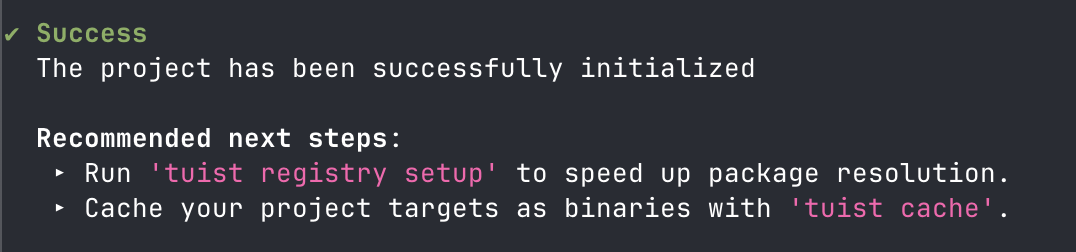
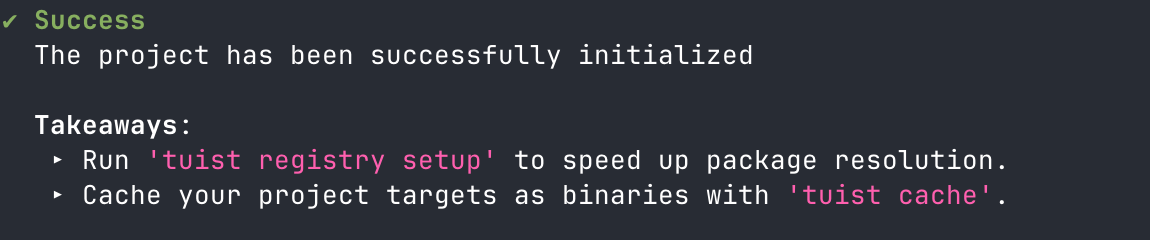
Rename next steps to takeaways

diff --git a/Sources/Noora/Noora.swift b/Sources/Noora/Noora.swift
@@ -3,60 +3,60 @@ import Logging
 
 public struct WarningAlert: ExpressibleByStringLiteral, Equatable, Hashable {
     public let message: TerminalText
-    public let nextStep: TerminalText?
+    public let takeaway: TerminalText?
 
-    public static func alert(_ message: TerminalText, nextStep: TerminalText? = nil) -> WarningAlert {
-        WarningAlert(message, nextStep: nextStep)
+    public static func alert(_ message: TerminalText, takeaway: TerminalText? = nil) -> WarningAlert {
+        WarningAlert(message, takeaway: takeaway)
     }
 
-    init(_ message: TerminalText, nextStep: TerminalText? = nil) {
+    init(_ message: TerminalText, takeaway: TerminalText? = nil) {
         self.message = message
-        self.nextStep = nextStep
+        self.takeaway = takeaway
     }
 
     public init(stringLiteral value: String) {
         message = TerminalText(stringLiteral: value)
-        nextStep = nil
+        takeaway = nil
     }
 }
 
 public struct SuccessAlert: ExpressibleByStringLiteral, Equatable, Hashable {
     public let message: TerminalText
-    public let nextSteps: [TerminalText]
+    public let takeaways: [TerminalText]
 
-    public static func alert(_ message: TerminalText, nextSteps: [TerminalText] = [])
+    public static func alert(_ message: TerminalText, takeaways: [TerminalText] = [])
         -> SuccessAlert
     {
-        SuccessAlert(message, nextSteps: nextSteps)
+        SuccessAlert(message, takeaways: takeaways)
     }
 
-    init(_ message: TerminalText, nextSteps: [TerminalText] = []) {
+    init(_ message: TerminalText, takeaways: [TerminalText] = []) {
         self.message = message
-        self.nextSteps = nextSteps
+        self.takeaways = takeaways
     }
 
     public init(stringLiteral value: String) {
         message = TerminalText(stringLiteral: value)
-        nextSteps = []
+        takeaways = []
     }
 }
 
 public struct ErrorAlert: ExpressibleByStringLiteral, Equatable, Hashable {
     public let message: TerminalText
-    public let nextSteps: [TerminalText]
+    public let takeaways: [TerminalText]
 
-    public static func alert(_ message: TerminalText, nextSteps: [TerminalText] = []) -> ErrorAlert {
-        ErrorAlert(message, nextSteps: nextSteps)
+    public static func alert(_ message: TerminalText, takeaways: [TerminalText] = []) -> ErrorAlert {
+        ErrorAlert(message, takeaways: takeaways)
     }
 
-    init(_ message: TerminalText, nextSteps: [TerminalText] = []) {
+    init(_ message: TerminalText, takeaways: [TerminalText] = []) {
         self.message = message
-        self.nextSteps = nextSteps
+        self.takeaways = takeaways
     }
 
     public init(stringLiteral value: String) {
         message = TerminalText(stringLiteral: value)
-        nextSteps = []
+        takeaways = []
     }
 }
 
@@ -361,7 +361,7 @@ public class Noora: Noorable {
 
     public func success(_ alert: SuccessAlert) {
         Alert(
-            item: .success(alert.message, nextSteps: alert.nextSteps),
+            item: .success(alert.message, takeaways: alert.takeaways),
             standardPipelines: standardPipelines,
             terminal: terminal,
             theme: theme,
@@ -371,7 +371,7 @@ public class Noora: Noorable {
 
     public func error(_ alert: ErrorAlert) {
         Alert(
-            item: .error(alert.message, nextSteps: alert.nextSteps),
+            item: .error(alert.message, takeaways: alert.takeaways),
             standardPipelines: standardPipelines,
             terminal: terminal,
             theme: theme,
@@ -385,7 +385,7 @@ public class Noora: Noorable {
 
     public func warning(_ alerts: [WarningAlert]) {
         Alert(
-            item: .warning(alerts.map { (message: $0.message, nextStep: $0.nextStep) }),
+            item: .warning(alerts.map { (message: $0.message, takeaway: $0.takeaway) }),
             standardPipelines: standardPipelines,
             terminal: terminal,
             theme: theme,

diff --git a/Sources/Noora/Components/Alert.swift b/Sources/Noora/Components/Alert.swift
@@ -3,9 +3,9 @@ import Logging
 import Rainbow
 
 enum AlertItem {
-    case warning([(TerminalText, nextStep: TerminalText?)])
-    case success(TerminalText, nextSteps: [TerminalText] = [])
-    case error(TerminalText, nextSteps: [TerminalText] = [])
+    case warning([(TerminalText, takeaway: TerminalText?)])
+    case success(TerminalText, takeaways: [TerminalText] = [])
+    case error(TerminalText, takeaways: [TerminalText] = [])
 
     var isSuccess: Bool {
         switch self {
@@ -31,13 +31,13 @@ struct Alert {
         let (title, color, recommendedTitle) = switch item {
         case .error: ("✖ Error ", theme.danger, "Sorry this didn’t work. Here’s what to try next")
         case .warning: ("! Warning ", theme.accent, "The following items may need attention")
-        case .success: ("✔ Success ", theme.success, "Recommended next steps")
+        case .success: ("✔ Success ", theme.success, "Takeaways")
         }
 
         standardPipeline.write(content: "\(title)\n".boldIfColoredTerminal(terminal).hexIfColoredTerminal(color, terminal))
 
         switch item {
-        case let .error(message, nextSteps), let .success(message, nextSteps: nextSteps):
+        case let .error(message, takeaways), let .success(message, takeaways: takeaways):
             for messageLine in message.formatted(theme: theme, terminal: terminal).split(separator: "\n") {
                 standardPipeline.write(content: "  \(messageLine) \n")
             }
@@ -45,15 +45,15 @@ struct Alert {
             \(item.isSuccess ? "Success" : "Error") alert: \(title)
               - Message: \(message)
             """
-            if !nextSteps.isEmpty {
+            if !takeaways.isEmpty {
                 standardPipeline.write(content: "\n  \(recommendedTitle.boldIfColoredTerminal(terminal)): \n")
                 logMessage = """
                 \(logMessage)
-                  - Next steps:
-                \(nextSteps.map { "    - \($0)" }.joined(separator: "\n"))
+                  - Takeaways:
+                \(takeaways.map { "    - \($0)" }.joined(separator: "\n"))
                 """
-                for nextItem in nextSteps {
-                    for (nextItemIndex, nextItemLine) in nextItem.formatted(theme: theme, terminal: terminal)
+                for takeaway in takeaways {
+                    for (nextItemIndex, nextItemLine) in takeaway.formatted(theme: theme, terminal: terminal)
                         .split(separator: "\n").enumerated()
                     {
                         if nextItemIndex == 0 {

diff --git a/Tests/NooraTests/Components/CompletionTests.swift b/Tests/NooraTests/Components/CompletionTests.swift
@@ -13,7 +13,7 @@ struct CompletionTests {
         let subject = Alert(item: .warning([
             (
                 "Your token is about to expire",
-                nextStep: "Run \(.command("tuist projects token create")) to generate a new token."
+                takeaway: "Run \(.command("tuist projects token create")) to generate a new token."
             ),
         ]), standardPipelines: standardPipelines, terminal: terminal, theme: .default, logger: nil)
 
@@ -38,7 +38,7 @@ struct CompletionTests {
         let subject = Alert(
             item: .error(
                 "The project generation failed",
-                nextSteps: [
+                takeaways: [
                     "Make sure you are using the latest Tuist version",
                     "If the problem persists, report it in the community forum.",
                 ]
@@ -71,7 +71,7 @@ struct CompletionTests {
         let subject = Alert(
             item: .success(
                 "The project has been created",
-                nextSteps: [
+                takeaways: [
                     "Cache your project targets as binaries with \(.command("tuist cache"))",
                     "Check out our docs to learn more about Tuist at https://docs.tuist.dev",
                 ]
@@ -90,7 +90,7 @@ struct CompletionTests {
         ✔ Success 
           The project has been created 
 
-          Recommended next steps: 
+          Takeaways: 
            ▸ Cache your project targets as binaries with 'tuist cache'
            ▸ Check out our docs to learn more about Tuist at https://docs.tuist.dev
         """.trimmingCharacters(in: .newlines)))

diff --git a/Sources/examples-cli/Commands/AlertCommand.swift b/Sources/examples-cli/Commands/AlertCommand.swift
@@ -12,16 +12,16 @@ struct AlertCommand: AsyncParsableCommand {
         Noora().warning(
             .alert(
                 "Your token is about to expire",
-                nextStep: "Generate a new token with \(.command("tuist project tokens create"))"
+                takeaway: "Generate a new token with \(.command("tuist project tokens create"))"
             )
         )
         print("\n")
-        Noora().success(.alert("The project has been successfully initialized", nextSteps: [
+        Noora().success(.alert("The project has been successfully initialized", takeaways: [
             "Run \(.command("tuist registry setup")) to speed up package resolution.",
             "Cache your project targets as binaries with \(.command("tuist cache")).",
         ]))
         print("\n")
-        Noora().error(.alert("The project generation failed with.", nextSteps: [
+        Noora().error(.alert("The project generation failed with.", takeaways: [
             "Make sure the project manifest files are valid and compile.",
             "Ensure you are running the latest Tuist version.",
         ]))

diff --git a/Tests/NooraTests/Utilities/NooraMockTests.swift b/Tests/NooraTests/Utilities/NooraMockTests.swift
@@ -6,7 +6,7 @@ struct NooraMockTests {
 
     @Test func prefixesLines_when_stderrMessages() {
         // When
-        subject.error(.alert("Project not found", nextSteps: [
+        subject.error(.alert("Project not found", takeaways: [
             "Make sure the project exists in the server",
         ]))
 
@@ -22,7 +22,7 @@ struct NooraMockTests {
 
     @Test func doesntPrefixLines_when_stdOutMessages() {
         // When
-        subject.success(.alert("Project set up successfully", nextSteps: [
+        subject.success(.alert("Project set up successfully", takeaways: [
             "Build your project using 'tuist xcodebuild'",
         ]))
 
@@ -31,7 +31,7 @@ struct NooraMockTests {
         ✔ Success
           Project set up successfully
 
-          Recommended next steps:
+          Takeaways:
            ▸ Build your project using 'tuist xcodebuild'
         """)
     }
